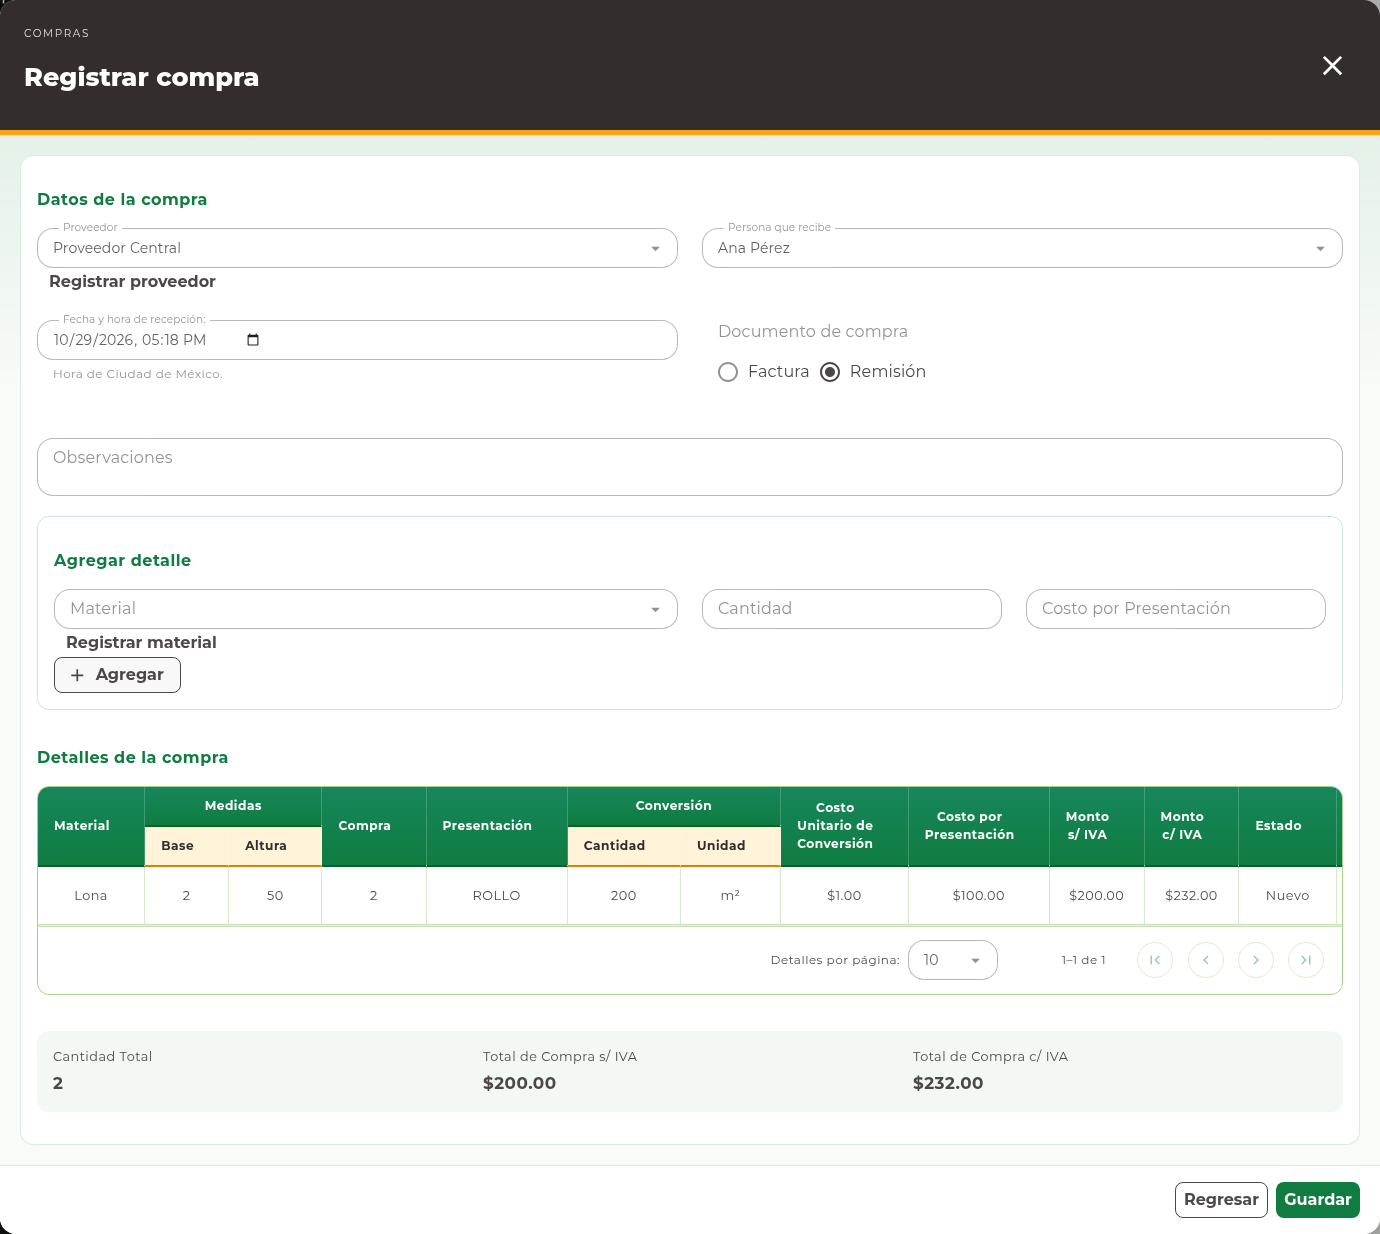
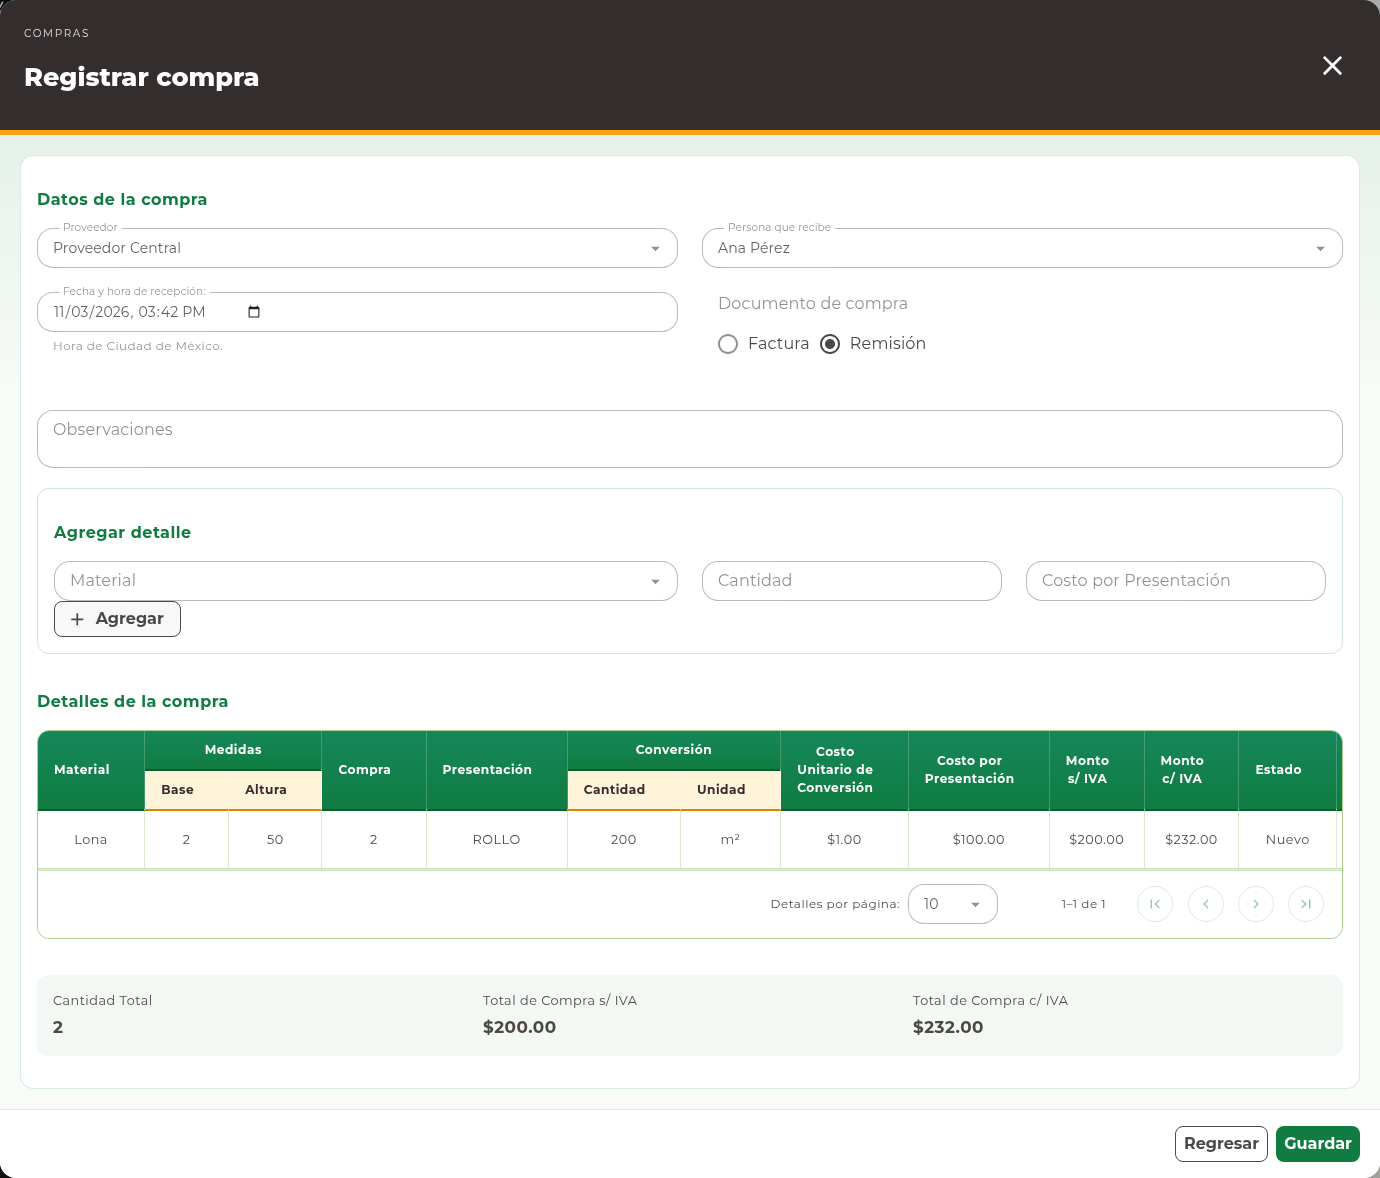
fix(front): simplificar altas en compras y corregir UUID en HTTP
Usar los selectores para las altas de proveedor y artículos en Compras. Compartir la generación de UUID con alternativa getRandomValues entre Compras, Salidas y Mermas. Presentar los fallos transitorios del login como errores de conexión y documentar su diagnóstico.

Validación: 454 pruebas unitarias, 41 pruebas de navegador, compilación, docs:check y captura de Compras actualizada con datos ficticios.

diff --git a/front/src/modules/purchases/components/PurchaseEditor.vue b/front/src/modules/purchases/components/PurchaseEditor.vue
@@ -79,33 +79,23 @@ const emit = defineEmits<{
                         :model-value="supplier?.title ?? ''"
                         readonly
                     />
-                    <template v-else>
-                        <RemoteSelect
-                            label="Proveedor"
-                            :model-value="values.supplierId"
-                            :state="suppliers"
-                            :error="errors.supplierId"
-                            :initial-option="supplier"
-                            :is-disabled="isSubmitting || !canSuppliers"
-                            :hint="!canSuppliers ? 'Sin permiso para consultar proveedores.' : ''"
-                            :create-label="canCreateSupplier ? 'Registrar proveedor' : undefined"
-                            @create="emit('createSupplier', $event)"
-                            @update:model-value="emit('update', 'supplierId', $event)"
-                            @blur="emit('blur', 'supplierId')"
-                            @search="emit('search', 'suppliers', $event)"
-                            @more="emit('more', 'suppliers')"
-                            @retry="emit('retry', 'suppliers')"
-                        />
-                        <VBtn
-                            v-if="canCreateSupplier"
-                            variant="text"
-                            size="small"
-                            :disabled="isSubmitting"
-                            @click="emit('createSupplier', '')"
-                        >
-                            Registrar proveedor
-                        </VBtn>
-                    </template>
+                    <RemoteSelect
+                        v-else
+                        label="Proveedor"
+                        :model-value="values.supplierId"
+                        :state="suppliers"
+                        :error="errors.supplierId"
+                        :initial-option="supplier"
+                        :is-disabled="isSubmitting || !canSuppliers"
+                        :hint="!canSuppliers ? 'Sin permiso para consultar proveedores.' : ''"
+                        :create-label="canCreateSupplier ? 'Registrar proveedor' : undefined"
+                        @create="emit('createSupplier', $event)"
+                        @update:model-value="emit('update', 'supplierId', $event)"
+                        @blur="emit('blur', 'supplierId')"
+                        @search="emit('search', 'suppliers', $event)"
+                        @more="emit('more', 'suppliers')"
+                        @retry="emit('retry', 'suppliers')"
+                    />
                 </VCol>
                 <VCol
                     cols="12"

diff --git a/front/tests/e2e/purchases.spec.ts b/front/tests/e2e/purchases.spec.ts
@@ -11,6 +11,11 @@ for (const [path, title, item] of [
   test(`compras ${path}: alta con detalles, validación diferida y payload sin totales`, async ({
     page,
   }) => {
+    await page.addInitScript(() => {
+      Object.defineProperty(crypto, 'randomUUID', { value: undefined });
+    });
+    const errors: string[] = [];
+    page.on('pageerror', (error) => errors.push(error.message));
     const { writes } = await mockPurchases(page);
     await page.goto(`/compras/${path}`);
     await expect(
@@ -46,6 +51,7 @@ for (const [path, title, item] of [
     });
     expect(writes[0]!.data).not.toHaveProperty('invoice');
     expect(writes[0]!.data).not.toHaveProperty('totalGrossPurchaseAmount');
+    expect(errors).toEqual([]);
   });
 }
 
@@ -217,7 +223,13 @@ test('compras: altas rápidas reutilizan editores y seleccionan registros fuera 
   await page.goto('/compras/materiales');
   await page.getByRole('button', { name: 'Nueva compra', exact: true }).click();
   const dialog = page.getByRole('dialog', { name: 'Registrar compra', exact: true });
-  await dialog.getByRole('button', { name: 'Registrar proveedor', exact: true }).click();
+  await expect(
+    dialog.getByRole('button', { name: 'Registrar proveedor', exact: true }),
+  ).toHaveCount(0);
+  await dialog.getByRole('combobox', { name: 'Proveedor', exact: true }).fill('Proveedor nuevo');
+  await page
+    .getByRole('button', { name: 'Registrar proveedor «Proveedor nuevo»', exact: true })
+    .click();
   const supplier = page.getByRole('dialog', { name: 'Registrar proveedor', exact: true });
   await supplier.getByLabel('Razón social', { exact: true }).fill('Empresa nueva');
   await supplier.getByLabel('Nombre comercial', { exact: true }).fill('Proveedor nuevo');
@@ -226,7 +238,13 @@ test('compras: altas rápidas reutilizan editores y seleccionan registros fuera 
   await expect(dialog.getByRole('combobox', { name: 'Proveedor', exact: true })).toHaveValue(
     'Proveedor nuevo',
   );
-  await dialog.getByRole('button', { name: 'Registrar material', exact: true }).click();
+  await expect(dialog.getByRole('button', { name: 'Registrar material', exact: true })).toHaveCount(
+    0,
+  );
+  await dialog.getByRole('combobox', { name: 'Material', exact: true }).fill('Material nuevo');
+  await page
+    .getByRole('button', { name: 'Registrar material «Material nuevo»', exact: true })
+    .click();
   const item = page.getByRole('dialog', { name: 'Crear material', exact: true });
   await item.getByLabel('Nombre', { exact: true }).fill('Material nuevo');
   await item.getByRole('combobox', { name: 'Presentación', exact: true }).click();

diff --git a/front/tests/e2e/login.spec.ts b/front/tests/e2e/login.spec.ts
@@ -133,7 +133,7 @@ test('login: envío pendiente bloquea duplicados y recupera controles tras un fa
   expect(requests).toBe(1);
   finish();
   await expect(page.getByRole('alert', { name: 'Error de acceso' })).toContainText(
-    'No se pudo iniciar sesión',
+    'No fue posible conectar',
   );
   await expect(page.getByRole('button', { name: 'Ingresar', exact: true })).toBeEnabled();
 });
@@ -152,6 +152,47 @@ test('login: acceso directo, recarga y móvil sin desbordamiento', async ({ page
   await page.getByRole('link', { name: 'Volver al inicio' }).click();
   await expect(page.getByRole('heading', { name: 'Iniciar sesión' })).toBeVisible();
   await expect(page.getByRole('button', { name: 'Ingresar', exact: true })).toBeVisible();
+});
+
+test('login: un 502 inicial conserva las credenciales y permite un nuevo intento sin recargar', async ({
+  page,
+}) => {
+  await mockWarehouse(page);
+  let attempts = 0;
+  let refreshCalls = 0;
+  const errors: string[] = [];
+  page.on('pageerror', (error) => errors.push(error.message));
+  await page.route('**/api/auth/refresh', (route) => {
+    refreshCalls++;
+    return route.fulfill({ status: 401, json: { code: 'INVALID_AUTH' } });
+  });
+  await page.route('**/api/auth/login', (route) => {
+    attempts++;
+    return attempts === 1
+      ? route.fulfill({ status: 502, contentType: 'text/plain', body: '' })
+      : route.fulfill({ json: { code: 'SUCCESS_LOGIN' } });
+  });
+  await page.goto('/inicio-sesion');
+  const name = page.getByRole('textbox', { name: 'Nombre de usuario', exact: true });
+  const password = page.getByLabel('Contraseña', { exact: true });
+  await name.fill('usuario');
+  await password.fill('legado');
+  await page.getByRole('button', { name: 'Ingresar', exact: true }).click();
+  await expect(page.getByRole('alert', { name: 'Error de acceso' })).toContainText(
+    'No fue posible conectar con el servidor',
+  );
+  await expect(name).toHaveValue('usuario');
+  await expect(password).toHaveValue('legado');
+  await expect(page.getByRole('button', { name: 'Ingresar', exact: true })).toBeEnabled();
+  expect(attempts).toBe(1);
+  expect(refreshCalls).toBe(0);
+  await page.getByRole('button', { name: 'Ingresar', exact: true }).click();
+  await expect(
+    page.getByRole('heading', { name: 'Tabla de Existencias', exact: true }),
+  ).toBeVisible();
+  expect(attempts).toBe(2);
+  expect(refreshCalls).toBe(0);
+  expect(errors).toEqual([]);
 });
 
 test('un fallo al cargar la página muestra recuperación y permite reintentar', async ({ page }) => {

diff --git a/front/tests/unit/modules/auth/services/authServiceTest.ts b/front/tests/unit/modules/auth/services/authServiceTest.ts
@@ -42,13 +42,16 @@ describe('adaptador Axios del login público', () => {
     });
   });
 
-  it.each([401, 429, 500])('HTTP %s no confirma el acceso ni renueva tokens', async (status) => {
-    const request = reply({}, status);
-    await expect(loginRequest({ name: 'usuario', password: 'abc' })).rejects.toBeInstanceOf(
-      LoginRequestError,
-    );
-    expect(request).toHaveBeenCalledOnce();
-  });
+  it.each([401, 429, 500, 502, 503, 504])(
+    'HTTP %s no confirma el acceso ni renueva tokens',
+    async (status) => {
+      const request = reply({}, status);
+      await expect(loginRequest({ name: 'usuario', password: 'abc' })).rejects.toBeInstanceOf(
+        LoginRequestError,
+      );
+      expect(request).toHaveBeenCalledOnce();
+    },
+  );
 
   it.each(['<html>Frontend en lugar de API</html>', { ok: true }])(
     'rechaza una respuesta inesperada aunque tenga HTTP 200',
@@ -74,6 +77,9 @@ describe('adaptador Axios del login público', () => {
   it.each([
     [401, 'Usuario o contraseña incorrectos.'],
     [429, 'Demasiados intentos. Espera un momento e intenta nuevamente.'],
+    [502, 'No fue posible conectar con el servidor. Intenta nuevamente.'],
+    [503, 'No fue posible conectar con el servidor. Intenta nuevamente.'],
+    [504, 'No fue posible conectar con el servidor. Intenta nuevamente.'],
   ] as const)('conserva HTTP %s aunque el proxy devuelva HTML', async (status, message) => {
     reply('<h1>Gateway</h1>', status);
     await expect(loginRequest({ name: 'usuario', password: 'legado' })).rejects.toThrow(message);

diff --git a/front/tests/unit/shared/utils/createUuidTest.ts b/front/tests/unit/shared/utils/createUuidTest.ts
@@ -1,0 +1,27 @@
+import { webcrypto } from 'node:crypto';
+import { expect, it, vi } from 'vitest';
+import { createUuid } from '../../../../src/shared/utils/createUuid.js';
+
+const uuidV4 = /^[\da-f]{8}-[\da-f]{4}-4[\da-f]{3}-[89ab][\da-f]{3}-[\da-f]{12}$/;
+
+it.each(['native', 'fallback'] as const)(
+  'genera identidades UUID v4 distintas con la implementación %s',
+  (implementation) => {
+    vi.stubGlobal(
+      'crypto',
+      implementation === 'native'
+        ? webcrypto
+        : { getRandomValues: webcrypto.getRandomValues.bind(webcrypto) },
+    );
+    const first = createUuid();
+    const second = createUuid();
+    expect(first).toMatch(uuidV4);
+    expect(second).toMatch(uuidV4);
+    expect(first).not.toBe(second);
+  },
+);
+
+it('fija versión y variante sin depender de randomUUID en HTTP', () => {
+  vi.stubGlobal('crypto', { getRandomValues: (bytes: Uint8Array) => bytes.fill(0xff) });
+  expect(createUuid()).toBe('ffffffff-ffff-4fff-bfff-ffffffffffff');
+});

diff --git a/front/src/modules/purchases/purchaseDetails.ts b/front/src/modules/purchases/purchaseDetails.ts
@@ -1,5 +1,6 @@
 import { calculateGoodsReceiptDetailAmounts } from '@nexus/purchase-calculations';
 import { isRecord } from '../../shared/utils/isRecord.js';
+import { createUuid } from '../../shared/utils/createUuid.js';
 import type { LookupItem } from '../../shared/lookup.js';
 import type { PurchaseDetail } from './purchase.js';
 
@@ -12,7 +13,7 @@ export const createPurchaseDetailDraft = (
     const presentation = isRecord(material.presentation) ? material.presentation : {};
     const unit = isRecord(material.unitMeasure) ? material.unitMeasure : {};
     return {
-        id: crypto.randomUUID(),
+        id: createUuid(),
         materialId: item.id,
         name: String(material.name ?? item.title),
         base: material.base == null ? null : Number(material.base),

diff --git a/front/src/modules/warehouse/services/pendingWasteOperation.ts b/front/src/modules/warehouse/services/pendingWasteOperation.ts
@@ -1,5 +1,6 @@
 import { ApiError } from '../../../shared/http/apiError.js';
 import { isRecord } from '../../../shared/utils/isRecord.js';
+import { createUuid } from '../../../shared/utils/createUuid.js';
 import type { InventoryPayload } from '../inventory.js';
 
 export const createPendingWasteOperation = (
@@ -33,7 +34,7 @@ export const createPendingWasteOperation = (
     };
 
     const save = (payload: InventoryPayload) => {
-        const data = read() ?? { ...payload, operationId: crypto.randomUUID() };
+        const data = read() ?? { ...payload, operationId: createUuid() };
         storage.setItem(key, JSON.stringify(data));
         return data;
     };

diff --git a/front/src/modules/issues/issueDetails.ts b/front/src/modules/issues/issueDetails.ts
@@ -1,5 +1,6 @@
 import { roundTo } from '@nexus/numbers';
 import { isRecord } from '../../shared/utils/isRecord.js';
+import { createUuid } from '../../shared/utils/createUuid.js';
 import type { LookupItem } from '../../shared/lookup.js';
 import type { IssueDetail, IssueResource } from './issue.js';
 
@@ -52,7 +53,7 @@ export const createIssueDetailDraft = (
     const base = item.base == null ? null : Number(item.base);
     const height = item.height == null ? null : Number(item.height);
     return {
-        id: crypto.randomUUID(),
+        id: createUuid(),
         itemId: String(item.id),
         supplierId:
             resource === 'wastes'

diff --git a/front/src/shared/utils/createUuid.ts b/front/src/shared/utils/createUuid.ts
@@ -1,0 +1,10 @@
+export const createUuid = (): string => {
+    if (typeof globalThis.crypto.randomUUID === 'function') return globalThis.crypto.randomUUID();
+
+    // getRandomValues también está disponible en los contextos HTTP sin randomUUID.
+    const bytes = globalThis.crypto.getRandomValues(new Uint8Array(16));
+    bytes[6] = (bytes[6]! & 0x0f) | 0x40;
+    bytes[8] = (bytes[8]! & 0x3f) | 0x80;
+    const hex = Array.from(bytes, (byte) => byte.toString(16).padStart(2, '0')).join('');
+    return `${hex.slice(0, 8)}-${hex.slice(8, 12)}-${hex.slice(12, 16)}-${hex.slice(16, 20)}-${hex.slice(20)}`;
+};

diff --git a/front/src/modules/purchases/components/PurchaseLineEntryForm.vue b/front/src/modules/purchases/components/PurchaseLineEntryForm.vue
@@ -54,15 +54,6 @@ const emit = defineEmits<{
                     @more="emit('more')"
                     @retry="emit('retry')"
                 />
-                <VBtn
-                    v-if="canCreate"
-                    size="small"
-                    variant="text"
-                    :disabled="isDisabled"
-                    @click="emit('create', '')"
-                >
-                    Registrar {{ itemLabel.toLowerCase() }}
-                </VBtn>
             </VCol>
             <VCol
                 cols="12"

diff --git a/front/tests/unit/modules/warehouse/inventoryFormTest.ts b/front/tests/unit/modules/warehouse/inventoryFormTest.ts
@@ -246,6 +246,7 @@ describe('captura Vue de inventario: contratos y reintentos (DP-VUE-WH-002/003)'
   });
 
   it('conserva cantidad y operationId tras una respuesta incierta y al volver a abrir', async () => {
+    vi.stubGlobal('crypto', { getRandomValues: crypto.getRandomValues.bind(crypto) });
     const first = openEditor('wastes', { action: 'add-stock', row: normalizeInventoryRow(waste) });
     first.request.mockRejectedValueOnce(new ApiError('Conexión interrumpida'));
     first.editor.update('quantity', '3');

diff --git a/front/src/modules/auth/services/authService.ts b/front/src/modules/auth/services/authService.ts
@@ -39,7 +39,7 @@ export const loginRequest = async (
             throw new LoginRequestError(LOGIN_MESSAGES.INVALID_FIELDS, cause.fieldErrors);
 
         throw new LoginRequestError(
-            cause.code === 'NETWORK_ERROR'
+            cause.code === 'NETWORK_ERROR' || [502, 503, 504].includes(cause.status)
                 ? LOGIN_MESSAGES.CONNECTION_FAILED
                 : cause.code === 'INVALID_RESPONSE'
                   ? LOGIN_MESSAGES.INVALID_RESPONSE
